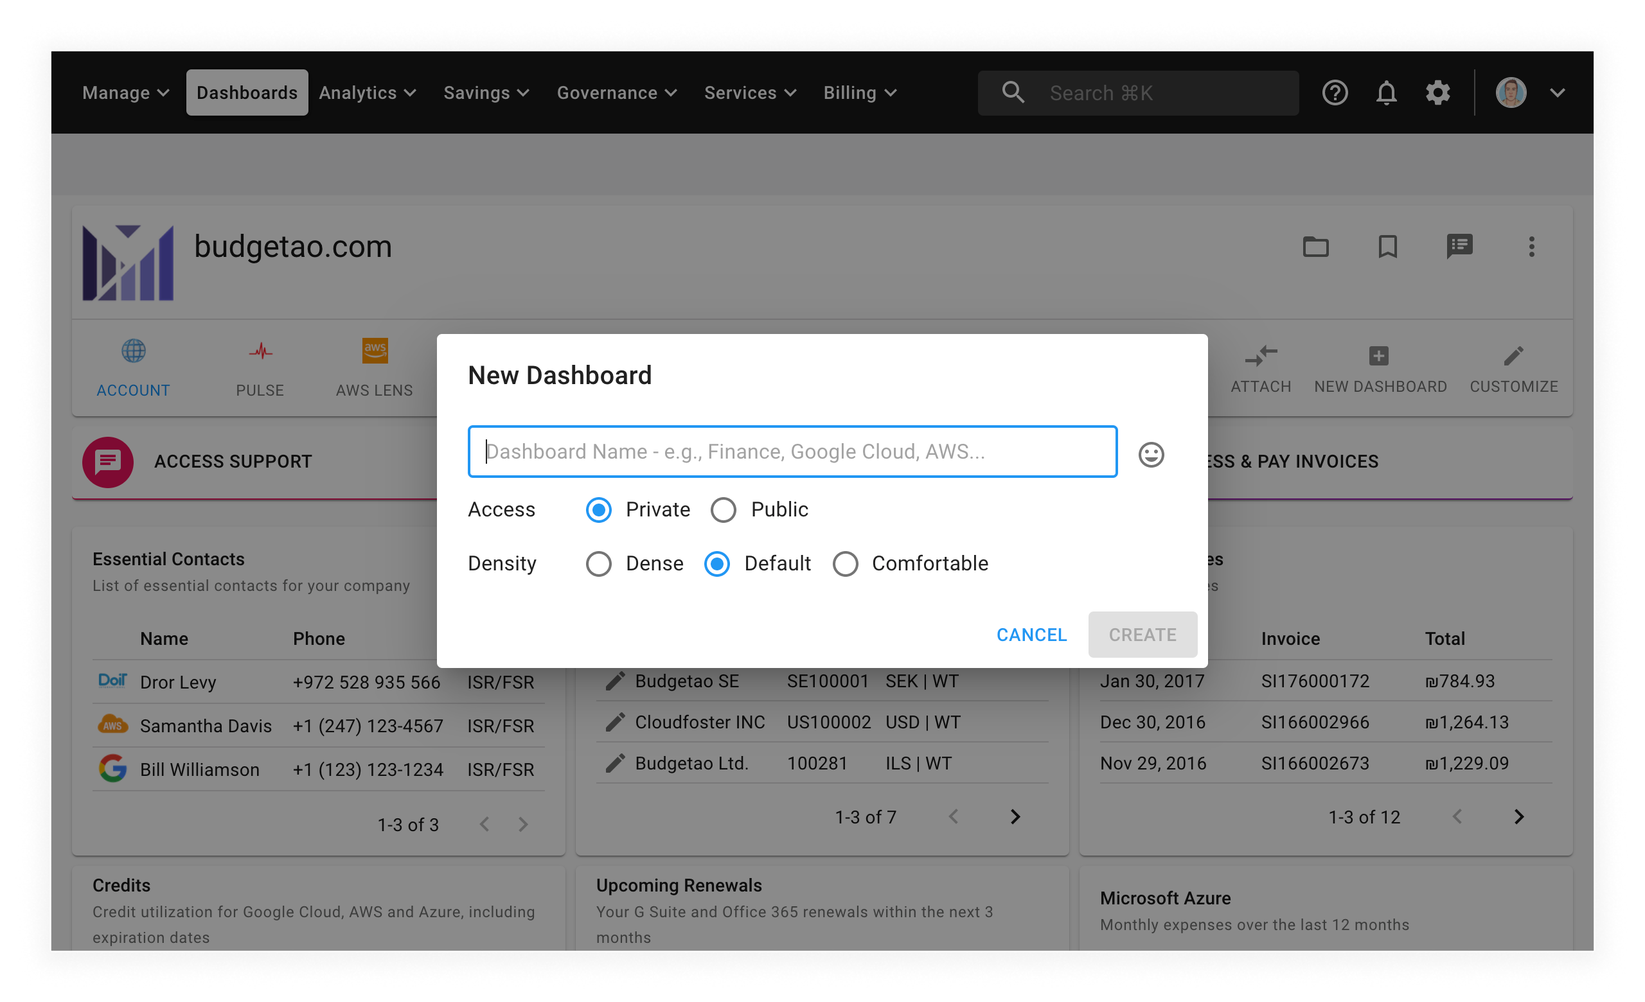
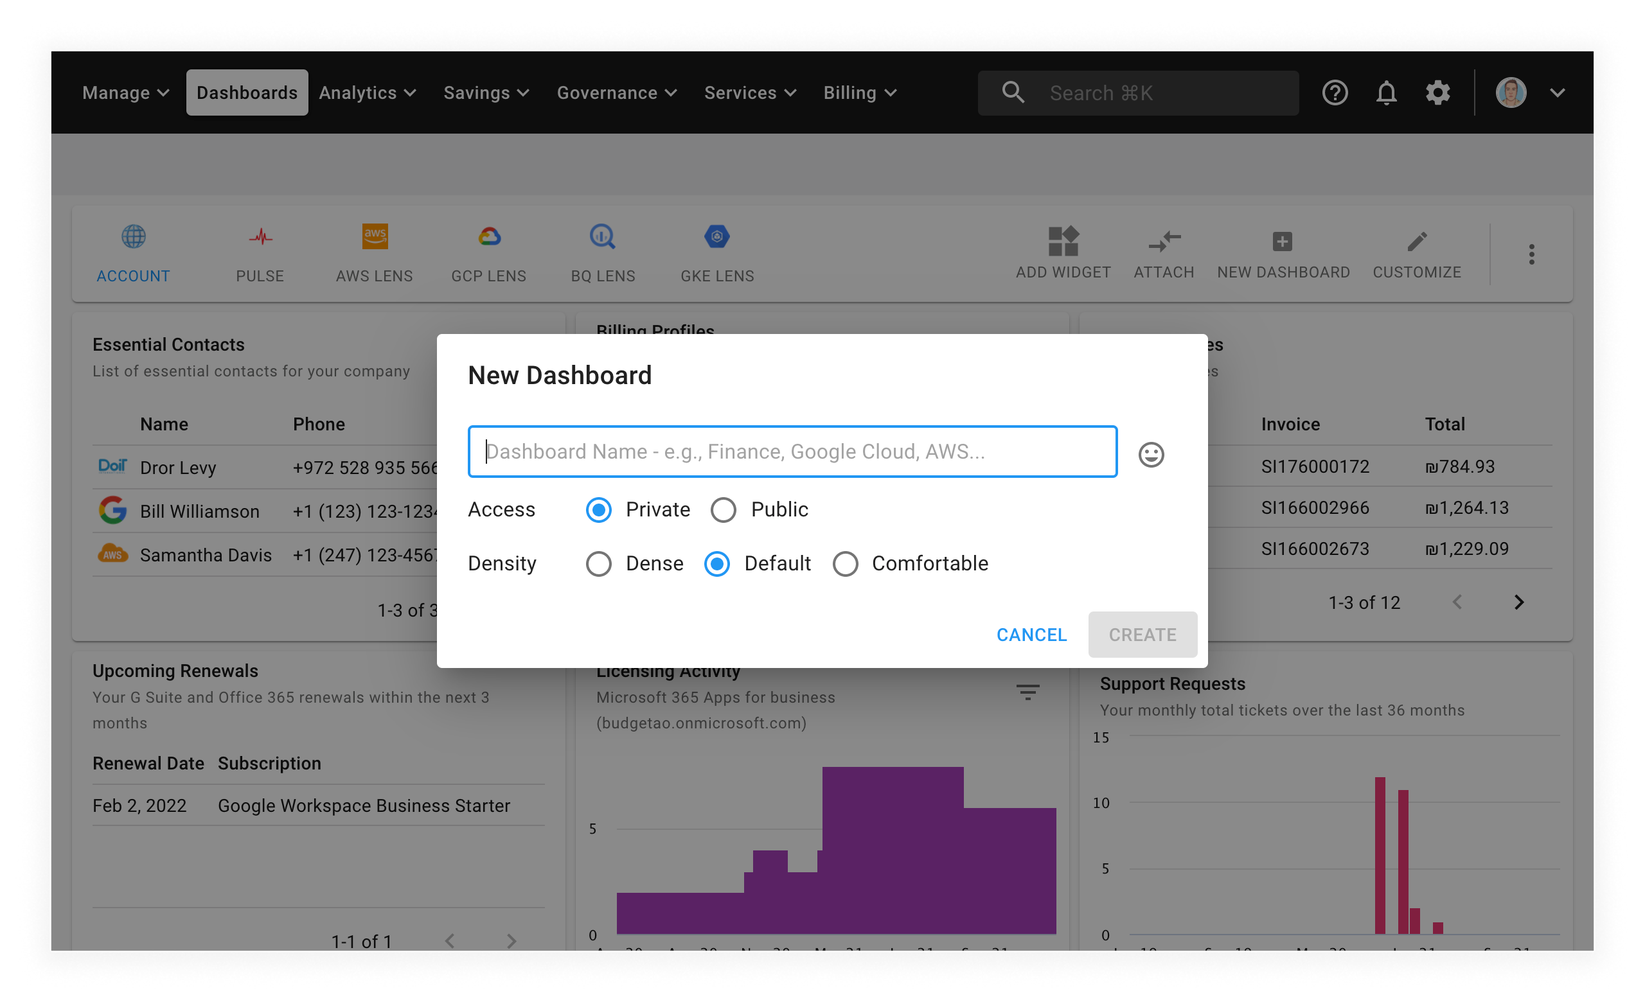
Update docs for recent design changes
Specifically:

- The location of the _Assets_ page has changed
- The design of the dashboards has changed

This commit updates all the screenshots, instructions, and copy needed
to reflect both changes. In addition, I made a few minor improvements
where I saw an opportunity.

diff --git a/docs/amazon-web-services/invite-existing-aws-account.md b/docs/amazon-web-services/invite-existing-aws-account.md
@@ -14,24 +14,39 @@ Required Permission: **Licenses Manager**
 Please note that you must be assigned access to the specific Billing Profile under which the domain is managed in order to invite an existing account.
 {% endhint %}
 
-1. Log into the [Cloud Management Platform](https://app.doit-intl.com)
-2. Click on the "setting" ⚙ icon located at the top right side of the navigation bar
-3. Click on "assets" under "cloud settings"
-4. Once you're at the Assets page, go to the right-hand side of the page and click on '**Invite Account**'.
+Within the CMP, select _Billing_ from the top navigation bar and then select _Assets_. The CMP will take you to the _Assets_ page.
 
-Choose the Billing Profile to which you'd like to have the existing AWS account now be a part of. Enter the 12-digit AWS Account ID and any optional notes before clicking 'Invite'.
+From the _Assets_ page, select _Amazon Web Services_ from the left-hand menu:
 
-![A screenshot of the AWS _Invitations_ screen](../.gitbook/assets/aws-invite-4.png)
+![A screenshot showing the Amazon Web Services assets page](../.gitbook/assets/cmp-assets-aws.png)
 
-An email will be sent on behalf of AWS.
+From the Amazon Web Services assets page, select the _Invite Account_ button.
+
+The CMP will open a modal dialog:
+
+![A screenshot showing the _Invite Account_ modal dialog](../.gitbook/assets/cmp-assets-aws-invite-account-modal.png)
+
+Then:
+
+1. Select the billing profile you would like to invite
+2. Enter the 12-digit AWS Account ID
+3. Add invitation notes (optional
+
+When you are done, select _Invite_.
+
+You should then receive an email from Amazon Web Services with a link to accept the invitation:
 
 ![A screenshot of an email sent by DoiT](../.gitbook/assets/email-invite-existing-3.png)
 
-If within five minutes you haven't received the above email, please re-enter your AWS Account ID in the DoiT Cloud Management Platform and invite once again.
+If you haven't received the above email within five minutes, please re-enter your AWS Account ID in the DoiT Cloud Management Platform and send the invite again.
 
-To complete the process, sign in to the [AWS Organizations Console](https://console.aws.amazon.com/organizations/). On the Invitations page in the console, you can see your open invitations to join organizations. Finally, click the "Accept" button to accept the invitation.
+To complete the process, sign in to the [AWS Organizations Console](https://console.aws.amazon.com/organizations/). On the Invitations page in the console, you can see your open invitations to join organizations:
 
-Afterward, you will be redirected to the **Organization overview** page with details about the organization that your account is now a member of. You can view the organization's ID and the owner's email address.
+![A screenshot of the AWS _Invitations_ screen](../.gitbook/assets/aws-invite-4.png)
+
+Finally, select the _Accept_ button to accept the invitation.
+
+Afterward, you will be redirected to the _Organization overview_ page that provides details about the organization that your account has joined. You can view the organization's ID and the owner's email address.
 
 ## Multiple Accounts Under a Master Organization
 

diff --git a/docs/amazon-web-services/create-an-aws-account.md b/docs/amazon-web-services/create-an-aws-account.md
@@ -16,29 +16,36 @@ Please note you must be assigned access to the specific Billing Profile under wh
 You will see an **OrganizationAccountAccessRole** in the new AWS account. This role is created by AWS and links back to the parent account. When creating the account we will use this role to [create the CloudHealth IAM Role](https://help.doit-intl.com/amazon-web-services/set-up-cloudhealth). The CMP or DoiT International will not use this role afterwards and you will have to **manually remove this role from your account**
 {% endhint %}
 
-* Log into the [Cloud Management Platform](https://app.doit-intl.com)
-* Click on the "setting" ⚙ icon located at the top right side of the navigation bar
-* Click on "assets" under "cloud settings"&#x20;
-* Once you're at the Assets page, go to the right-hand side of the page and click on '**Invite Account**'.
+Within the CMP, select _Billing_ from the top navigation bar and then select _Assets_. The CMP will take you to the _Assets_ page.
 
-On the right-hand side of the page, click the bottom facing arrow and choosing 'Create Account'.
+From the _Assets_ page, select _Amazon Web Services_ from the left-hand menu:
 
-![A screenshot of AWS assets cards](../.gitbook/assets/cmp-aws-asset-cards.png)
+![A screenshot showing the Amazon Web Services assets page](../.gitbook/assets/cmp-assets-aws.png)
 
-Choose the Billing Profile to which you're creating the account for while choosing the name of the account to which the _root email_ is associated with.
+From the Amazon Web Services assets page, select the arrow next to the _Invite Account_ button, then select _Create Account_ from the drop-down menu that appears. Finally, select the button a second time (which should now read _Create Account_).
 
-![A screenshot of the Create New Account form](../.gitbook/assets/cmp-create-new-account-form.png)
+The CMP will open a modal dialog:
 
-Click 'Create' and a popup will appear that the account was created successfully.
+![A screenshot showing the _Create Account__ modal dialog](../.gitbook/assets/cmp-assets-aws-create-account-modal.png)
+
+Then:
+
+1. Choose the billing profile for the account
+2. Chose a name for the account
+3. Set the _root email_
+
+When you are done, select _Create_.
+
+The CMP will display a confirmation message:
 
 !["Account created successfully! Check your email for further instructions"](../.gitbook/assets/cmp-aws-account-successful.png)
 
-As listed in the popup, an email is sent out for further instructions, here is an example.
+The CMP will send you an email with further instructions. For example:
 
-![A screenshot of a _Create New Account_ modal dialog](../.gitbook/assets/email-aws-create-2.png)
+![A screenshot of a _New Account_ email](../.gitbook/assets/email-aws-create-2.png)
 
-The following video shows you how to create an AWS Account.
+The following video walks you through the whole process:
 
 {% embed url="https://www.loom.com/share/f92b0a76aa884a52ad9281f0736f44a1" %}
 
-If you require further assistance please contact our support team at [support.doit-intl.com](https://support.doit-intl.com)
+Please [get in touch with our support team](https://support.doit-intl.com) if you require further assistance.

diff --git a/docs/google-cloud/import-historical-billing-data.md b/docs/google-cloud/import-historical-billing-data.md
@@ -12,11 +12,7 @@ To get started, first, you need to ensure that you have a Service Account that c
 
 ## Identify the service account
 
-From the top menu, select the gear icon (_Settings_) in the upper right-hand corner, then select _Google Cloud_ under _Cloud settings_:
-
-![A screenshot showing the _Google Cloud_ settings menu item](../.gitbook/assets/cmp-google-cloud-settings-menu.png)
-
-This will take you to the Google Cloud settings screen:
+Within the CMP, select the gear icon (_Settings_) from the top navigation bar, then select _Google Cloud_ under _Cloud settings_. The CMP will take you to the Google Cloud settings screen:
 
 ![A screenshot showing the _Google Cloud_ settings screen](../.gitbook/assets/cmp-google-cloud-settings.png)
 
@@ -66,24 +62,30 @@ You need to have the appropriate IAM role/permission in GCP to grant the require
 ## Link your Google Cloud Direct Billing Account
 
 {% hint style="info" %}
-Required Permission: Assets Manager
+Required Permission: **Assets Manager**
 {% endhint %}
 
-1. From CMP's left side navigation menu, click "**Assets**"
-2. Select "**Google Cloud**" tab
-3. Click the dropdown button next to "New Billing Account" and select "**Link Direct Account**"
+Within the CMP, select _Billing_ from the top navigation bar and then select _Assets_. The CMP will take you to the _Assets_ page.
 
-![A screenshot showing the location of the Assets menu item, the Google Cloud tab, and the Link Direct Account option](../.gitbook/assets/gcp-link-account.png)
+From the _Assets_ page, select _Google Cloud_ from the left-hand navigation to access the Google Cloud assets page:
 
-You can now import your historical billing data into CMP. You need the following information to complete the process:
+![A screenshot showing the Google Cloud assets page](../.gitbook/assets/cmp-assets-google-cloud.png)
 
-* Billing Account ID: _example_ "**01CF51-9FDB87-7894FD**"
-* Source Project: Enter the "**Project ID"**
-* Source Dataset: Enter the "**Dataset ID"**
+From the Google Cloud assets page, select arrow next to the _New Billing Account_ button, then select _Link Direct Account_ from the drop-down menu that appears. Finally, select the button a second time (which should now read _Link Direct Account_).
 
-![A screenshot of the Link your Google Cloud Direct Billing Account modal dialog](../.gitbook/assets/cmp-link-google-cloud-billing-account-dialog.png
+The CMP will open a modal dialog:
 
-Once you select _Import_, a new card will be added to your Google Cloud assets screen with status information:
+![A screenshot showing the _Link Direct Account_ modal dialog](../.gitbook/assets/cmp-assets-google-cloud-link-direct-account.png)
+
+To import your historical billing data into the CMP, enter the following:
+
+* Billing Account ID — For example `01CF51-9FDB87-7894FD`
+* Source Project — Enter the _Project ID_
+* Source Dataset — Enter the _Dataset ID_
+
+When you are done, select _Import_ to continue.
+
+The CMP will add a new card to your Google Cloud assets page with import status information:
 
 ![A screenshot showing the new Google Cloud card with a "Processing" status](../.gitbook/assets/cmp-google-cloud-card-processing.png)
 

diff --git a/docs/assets-and-contracts/tag-assets.md b/docs/assets-and-contracts/tag-assets.md
@@ -11,21 +11,25 @@ You can tag an asset for classification purposes. Tags will appear on invoices s
 Note that only one tag is allowed per asset. To add tags to assets, see the following instructions.
 
 {% hint style="info" %}
-Required Role\*\*: Admin\*\*
+
+Required Role: **Admin**
+
 {% endhint %}
 
-1. Navigate to 'Assets' via the settings cog in the top-right hand section of the main navigation
-2. Within the 'Assets' section, select the 'Asset Type' you want to tag (AWS, Google Cloud, etc.)
-3. Once on the chosen tab, click the 3-dot menu of the asset you wish to tag
-   * The assets are shown as cards
-4. Select 'Tag Asset'
+1. Navigate to the _Assets_ page via the _Billing_ menu from the top navigation bar
+2. From the _Assets_ page, select the asset type from the left-hand menu (_Amazon Web Services_, _Google Workspace_, and so on)
+3. After finding the asset you want to tag, select the three dots icon in the top right-hand corner of the asset card
+4. Select _Tag Asset_ from the drop-down menu:
+
+   ![A screenshot showing the asset drop-down menu](../.gitbook/assets/cmp-assets-drop-down-menu.png)
+
+   The CMP will open a new modal dialog:
+
+   ![A screenshot showing the _Tag Asset_ modal dialog](../.gitbook/assets/cmp-assets-tag-asset-modal.png)
+
 5. Input a new tag or select from the list of previously created tags
-6. Click 'Save'
+6. Select _Save_
 
-![A screenshot showing the 3-dot menu options, including 'Tag Asset'](../.gitbook/assets/cmp-assets-page.png)
+After selecting _Save_, the tag will be visible under the asset name in the form of a grey chip.
 
-![A screenshot showing the 'Tag Asset' modal and input](../.gitbook/assets/cmp-tag-asset-input.png)
-
-All new tags you save will be added to the tag selection list and will be available to use for other assets.
-
-After clicking save, the tag will be visible under the asset name in the form of a grey chip.
+All new tags you save will be added to the global tag list and will be available for use with other assets.

diff --git a/docs/google-cloud/create-google-cloud-billing-account.md b/docs/google-cloud/create-google-cloud-billing-account.md
@@ -22,17 +22,23 @@ Please note: Your user account must be linked to at least one billing profile in
 
 ## Create a new billing account
 
-Start with you logging into the [Cloud Management Platform](https://app.doit-intl.com), and select _Manage Licenses & Assets_ from the main dashboard:
+Within the CMP, select _Billing_ from the top navigation bar and then select _Assets_. The CMP will take you to the _Assets_ page.
 
-![A screenshot showing you CMP dashboard](../.gitbook/assets/cmp-dashboard.png)
+From the _Assets_ page, select _Google Cloud_ from the left-hand navigation to access the Google Cloud assets page:
 
-Once you're at the Assets page, switch to the Google Cloud tab and select _New Billing Account_, located in the top right-hand corner of the screen:
+![A screenshot showing the Google Cloud assets page](../.gitbook/assets/cmp-assets-google-cloud.png)
 
-![A screenshot showing the Google Cloud assets screen](../.gitbook/assets/cmp-assets-google-cloud.png)
+From the Google Cloud assets page, select the _New Billing Account_ button.
 
-You will be prompted with a pop-up requesting you to enter your Google _Billing Account Name_, _Billing Profile_, and the email addresses of designated _Billing Account Administrators_.
+The CMP will open a modal dialog:
 
-After completing the form, you should now see the new billing account listed on the Google Cloud assets page.
+![A screenshot showing the _New Billing Account_ modal dialog](../.gitbook/assets/cmp-assets-google-cloud-new-billing-account.png)
+
+Enter your Google _Billing Account Name_, _Billing Profile_, and the email addresses of designated _Billing Account Administrators_.
+
+When you are done, select _Create_.
+
+The new billing account will now be listed on the Google Cloud assets page.
 
 {% hint style="info" %}
 Your domain is added as a _Billing Account User_ on the new Billing Accounts you create in the CMP. This allows anyone on the domain to link projects to the billing account.

diff --git a/docs/assets-and-contracts/assign-assets-to-billing-profiles.md b/docs/assets-and-contracts/assign-assets-to-billing-profiles.md
@@ -7,15 +7,23 @@ description: Configure which assets appear on which Billing Profile invoices
 You can assign assets to [Billing Profiles](../invoices-and-payments/setting-up-a-new-billing-profile.md) for invoicing purposes. Since every Billing Profile receives its own monthly invoice, how you assign assets will affect how each entity is billed.
 
 {% hint style="info" %}
-Required Role\*\*: Admin\*\*
+
+Required Role: **Admin**
+
 {% endhint %}
 
-Navigate to 'Assets' via the settings cog in the top-right hand section of the main navigation
+1. Navigate to the _Assets_ page via the _Billing_ menu from the top navigation bar
+2. From the _Assets_ page, select the asset type from the left-hand menu (_Amazon Web Services_, _Google Workspace_, and so on)
+3. After finding the asset you want to tag, select the three dots icon in the top right-hand corner of the asset card
+4. Select _Billing Profile Assignment_ from the drop-down menu:
 
-Once you're on the Assets tab, switch to the relevant 'Asset Type' you want to work with (AWS, Google Cloud, etc), locate the 3-dot menu on the chosen asset card, and click on 'Billing Profile Assignment'.
+   ![A screenshot showing the asset drop-down menu](../.gitbook/assets/cmp-assets-drop-down-menu.png)
 
-![A screenshot showing the location of the Billing Profile Assignment option](../.gitbook/assets/cmp-assets-page.png)
+   The CMP will open a new modal dialog:
 
-Finally, select the Billing Profile you'd like to assign the asset to from the dropdown, and click "Save" to confirm your changes.
+   ![A screenshot showing the _Billing Profile Assignment_ modal dialog](../.gitbook/assets/cmp-assets-billing-profile-modal.png)
 
-![A screenshot showing the location of the Save button](../.gitbook/assets/cmp-assets-save-button.png)
+5. Select the desired billing profile from the drop-down menu
+6. Select _Save_
+
+The CMP will assign the asset to the selected billing profile.

diff --git a/docs/dashboards/widgets-overview.md b/docs/dashboards/widgets-overview.md
@@ -4,15 +4,17 @@ description: Widgets are cards you can place on dashboards for additional functi
 
 # Widgets Overview
 
-Widgets are an essential aspect of the home dashboard in the Cloud Management Platform customization. You can change the location of the widgets by clicking the 'Customize' button and reordering the widgets on your dashboard, as well as remove them altogether if you wish.
+Widgets are the building blocks of a dashboard:
 
-**Manage Licenses & Assets** opens the assets page which you can use to purchase additional licenses and subscriptions for G Suite and Office 365.
+![A screenshot showing the default dashboard](../.gitbook/assets/cmp-dashboard.png)
 
-**Access & Pay Invoices** provides a list of your company's invoices from DoiT International, including their amounts, payment status, and invoice details.
+If you have permission to edit a dashboard, you can add, remove, and reorder the widgets using the _Customize_ button.
 
-**Access Support** is used to create new customer service requests or access existing requests previously opened by you or someone on your team.
+{% hint style="info" %}
 
-_Please note that if one of the items on that list is disabled \(grayed out\), it means your user doesn't have the appropriate credentials required to perform this action._
+See also: [Customizing Dashboards](customizing-dashboards.md)
+
+{% endhint %}
 
 ## Essential Contacts
 

diff --git a/docs/dashboards/bigquery-lens.md b/docs/dashboards/bigquery-lens.md
@@ -27,11 +27,7 @@ After your service account has been uploaded and you have enabled the features y
 
 ## Setup
 
-Once the Google Cloud Service Account setup is complete, select the _Attach_ button from the dashboard navigation bar:
-
-![A screenshot showing the location of the _Attach_ icon](../.gitbook/assets/cmp-dashboard-attach-bigquery-lens.png)
-
-Select _BigQuery Lens_ from the list of options.
+Once the Google Cloud Service Account setup is complete, select the _Attach_ button from the dashboard navigation bar, then select _BigQuery Lens_ from the list of options.
 
 After attaching the BigQuery Lens dashboard, a BigQuery Lens icon will appear on your dashboard and the CMP will start gathering information about your account usage patterns.
 
@@ -59,9 +55,9 @@ The BigQuery historical jobs are backfilled for the last 30 days.
 
 ## Understanding the BigQuery Lens
 
-The BigQuery Lens dashboard is made up of  widgets that, each designed to highlight a different aspect of your BigQuery usage.
+The BigQuery Lens dashboard is made up of  widgets that, each designed to highlight a different aspect of your BigQuery usage:
 
-![A partial screenshot of the BigQuery Lens dashboard](../.gitbook/assets/cmp-bg-lens-dashboard.png)
+![A partial screenshot of the BigQuery Lens dashboard](../.gitbook/assets/cmp-dashboard-bigquery-lens.png)
 
 ### Elements of the Dashboard
 

diff --git a/docs/g-suite-and-workspace/configure-auto-increase-for-google-workspace-subscriptions.md b/docs/g-suite-and-workspace/configure-auto-increase-for-google-workspace-subscriptions.md
@@ -20,13 +20,11 @@ At a minimum, to manage Google Workspace licenses, your [User Role](../user-mana
 _Please note that you must be assigned access to the specific Billing Profile under which the domain is managed in order to configure auto-increase._
 {% endhint %}
 
-Start from the main CMP dashboard and select the _MANAGE LICENSES & ASSETS_ button in the middle of the screen:
+Within the CMP, select _Billing_ from the top navigation bar and then select _Assets_. The CMP will take you to the _Assets_ page.
 
-![A screenshot of the CMP dashboard](../.gitbook/assets/cmp-dashboard.png)
+From the _Assets_ page, select _Google Workspace_ from the left-hand menu:
 
-from the _Assets_ page, select _Google Workspace_ from the left-hand menu:
-
-![A screenshot showing the Google Workspace screen](../.gitbook/assets/cmp-google-workspace-screen.png)
+![A screenshot showing the Google Workspace screen](../.gitbook/assets/cmp-assets-google-workspace-screen.png)
 
 Locate the subscription you'd like to configure auto-increase for, and click on the ellipsis icon on the right-hand side of the widget. Then choose 'Configure Auto Increase'.
 

diff --git a/docs/g-suite-and-workspace/upgrading-your-g-suite-edition.md b/docs/g-suite-and-workspace/upgrading-your-g-suite-edition.md
@@ -16,13 +16,11 @@ Required Permission: **Assets Manager**
 Please note that you must be assigned access to the specific Billing Profile under which the domain is managed in order to upgrade your subscription.
 {% endhint %}
 
-Start from the main CMP dashboard and select the _MANAGE LICENSES & ASSETS_ button in the middle of the screen:
+Within the CMP, select _Billing_ from the top navigation bar and then select _Assets_. The CMP will take you to the _Assets_ page.
 
-![A screenshot of the CMP dashboard](../.gitbook/assets/cmp-dashboard.png)
+From the _Assets_ page, select _Google Workspace_ from the left-hand menu:
 
-from the _Assets_ page, select _Google Workspace_ from the left-hand menu:
-
-![A screenshot showing the Google Workspace screen](../.gitbook/assets/cmp-google-workspace-screen.png)
+![A screenshot showing the Google Workspace screen](../.gitbook/assets/cmp-assets-google-workspace-screen.png)
 
 To upgrade to a higher edition, locate the G Suite subscription for which you want to upgrade, and click on the three-dots icon on the right-hand side of the widget. Then choose 'Change G Suite Edition'.
 

diff --git a/docs/g-suite-and-workspace/add-a-new-g-suite-subscription.md b/docs/g-suite-and-workspace/add-a-new-g-suite-subscription.md
@@ -14,13 +14,11 @@ Required Permission: **Assets Manager**
 
 _Please note that you must be assigned access to the specific Billing Profile under which the domain is managed in order to purchase a new subscription._
 
-Start from the main CMP dashboard and select the _MANAGE LICENSES & ASSETS_ button in the middle of the screen:
+Within the CMP, select _Billing_ from the top navigation bar and then select _Assets_. The CMP will take you to the _Assets_ page.
 
-![A screenshot of the CMP dashboard](../.gitbook/assets/cmp-dashboard.png)
+From the _Assets_ page, select _Google Workspace_ from the left-hand menu:
 
-from the _Assets_ page, select _Google Workspace_ from the left-hand menu:
-
-![A screenshot showing the Google Workspace screen](../.gitbook/assets/cmp-google-workspace-screen.png)
+![A screenshot showing the Google Workspace screen](../.gitbook/assets/cmp-assets-google-workspace-screen.png)
 
 To add a new G Suite subscription, select the _NEW SUBSCRIPTION_ button in the top right-hand corner of the page.
 

diff --git a/docs/g-suite-and-workspace/purchasing-g-suite-licenses.md b/docs/g-suite-and-workspace/purchasing-g-suite-licenses.md
@@ -18,13 +18,11 @@ Please note that you must be assigned access to the specific billing profile und
 
 {% endhint %}
 
-Start from the main CMP dashboard and select the _MANAGE LICENSES & ASSETS_ button in the middle of the screen:
+Within the CMP, select _Billing_ from the top navigation bar and then select _Assets_. The CMP will take you to the _Assets_ page.
 
-![A screenshot of the CMP dashboard](../.gitbook/assets/cmp-dashboard.png)
+From the _Assets_ page, select _Google Workspace_ from the left-hand menu:
 
-from the _Assets_ page, select _Google Workspace_ from the left-hand menu:
-
-![A screenshot showing the Google Workspace screen](../.gitbook/assets/cmp-google-workspace-screen.png)
+![A screenshot showing the Google Workspace screen](../.gitbook/assets/cmp-assets-google-workspace-screen.png)
 
 You can see the number of licenses in use next to each _Quantity_ label.
 
